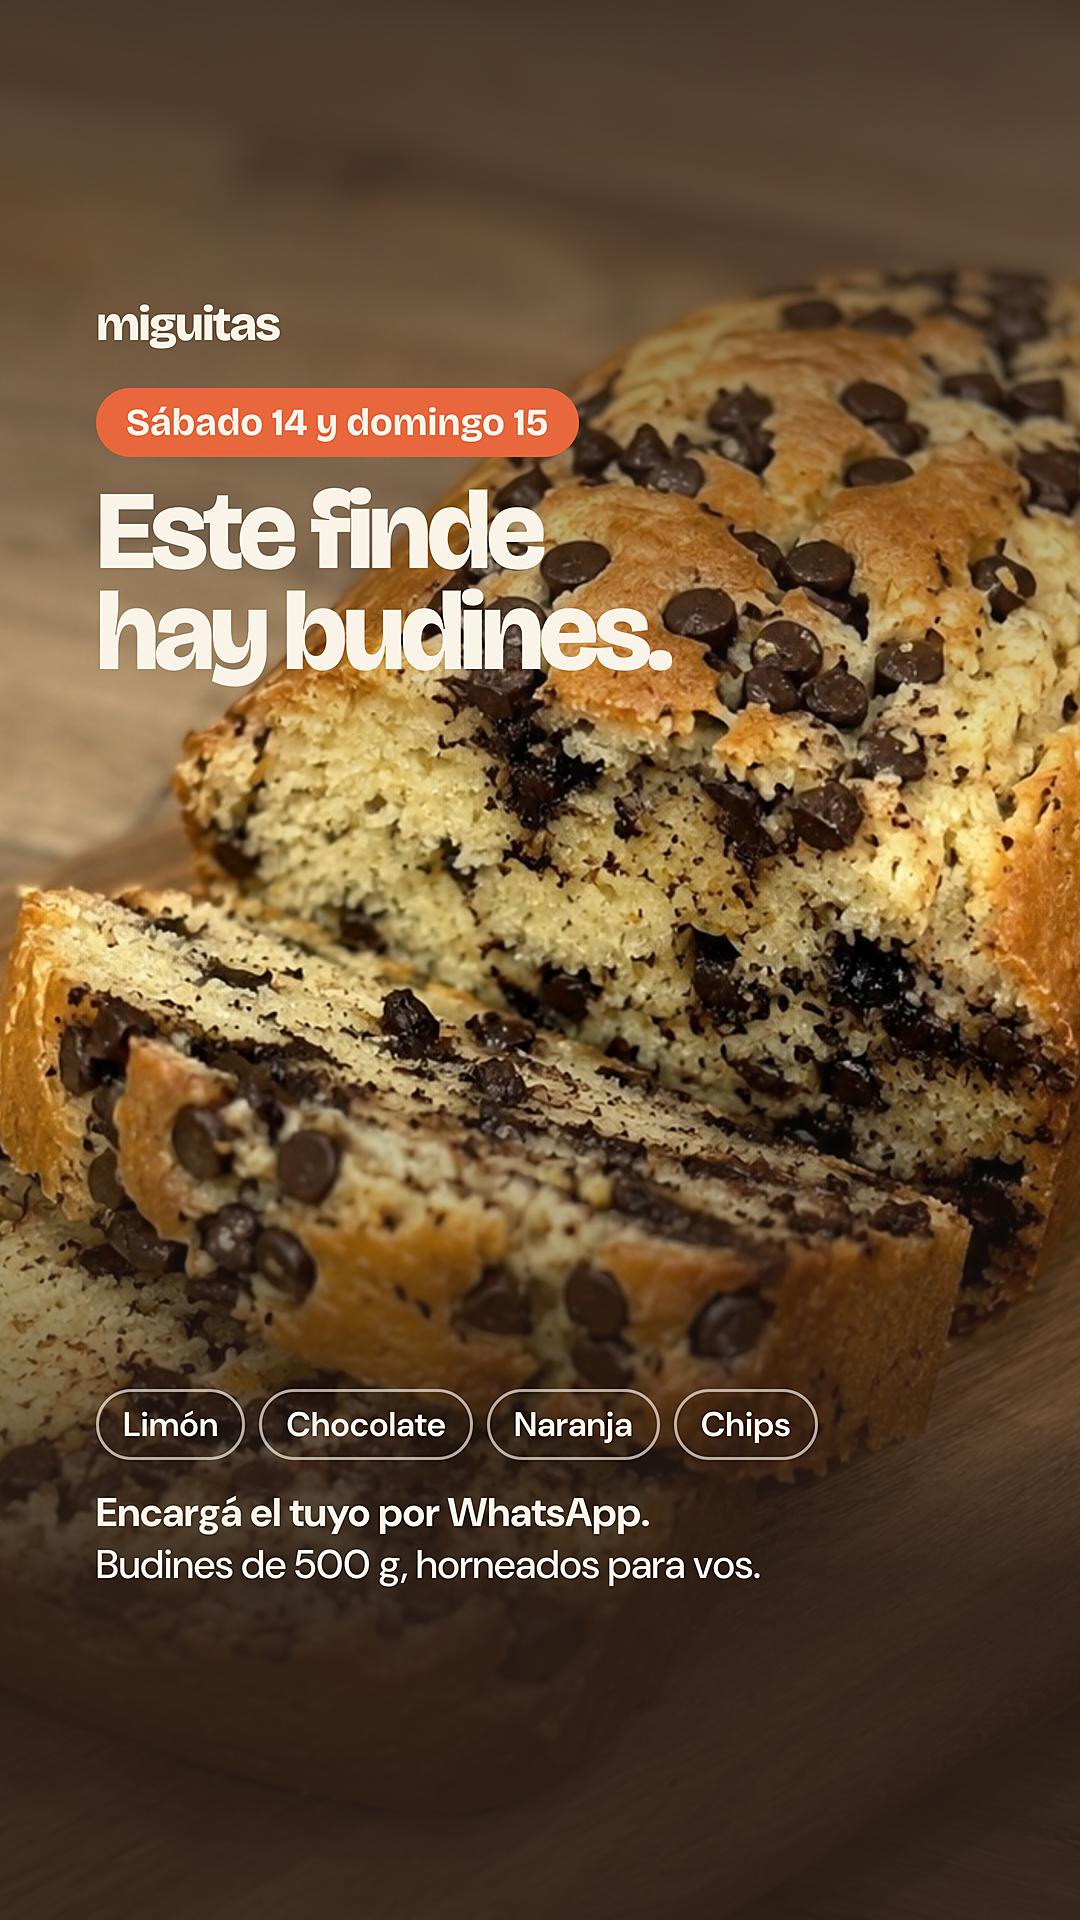
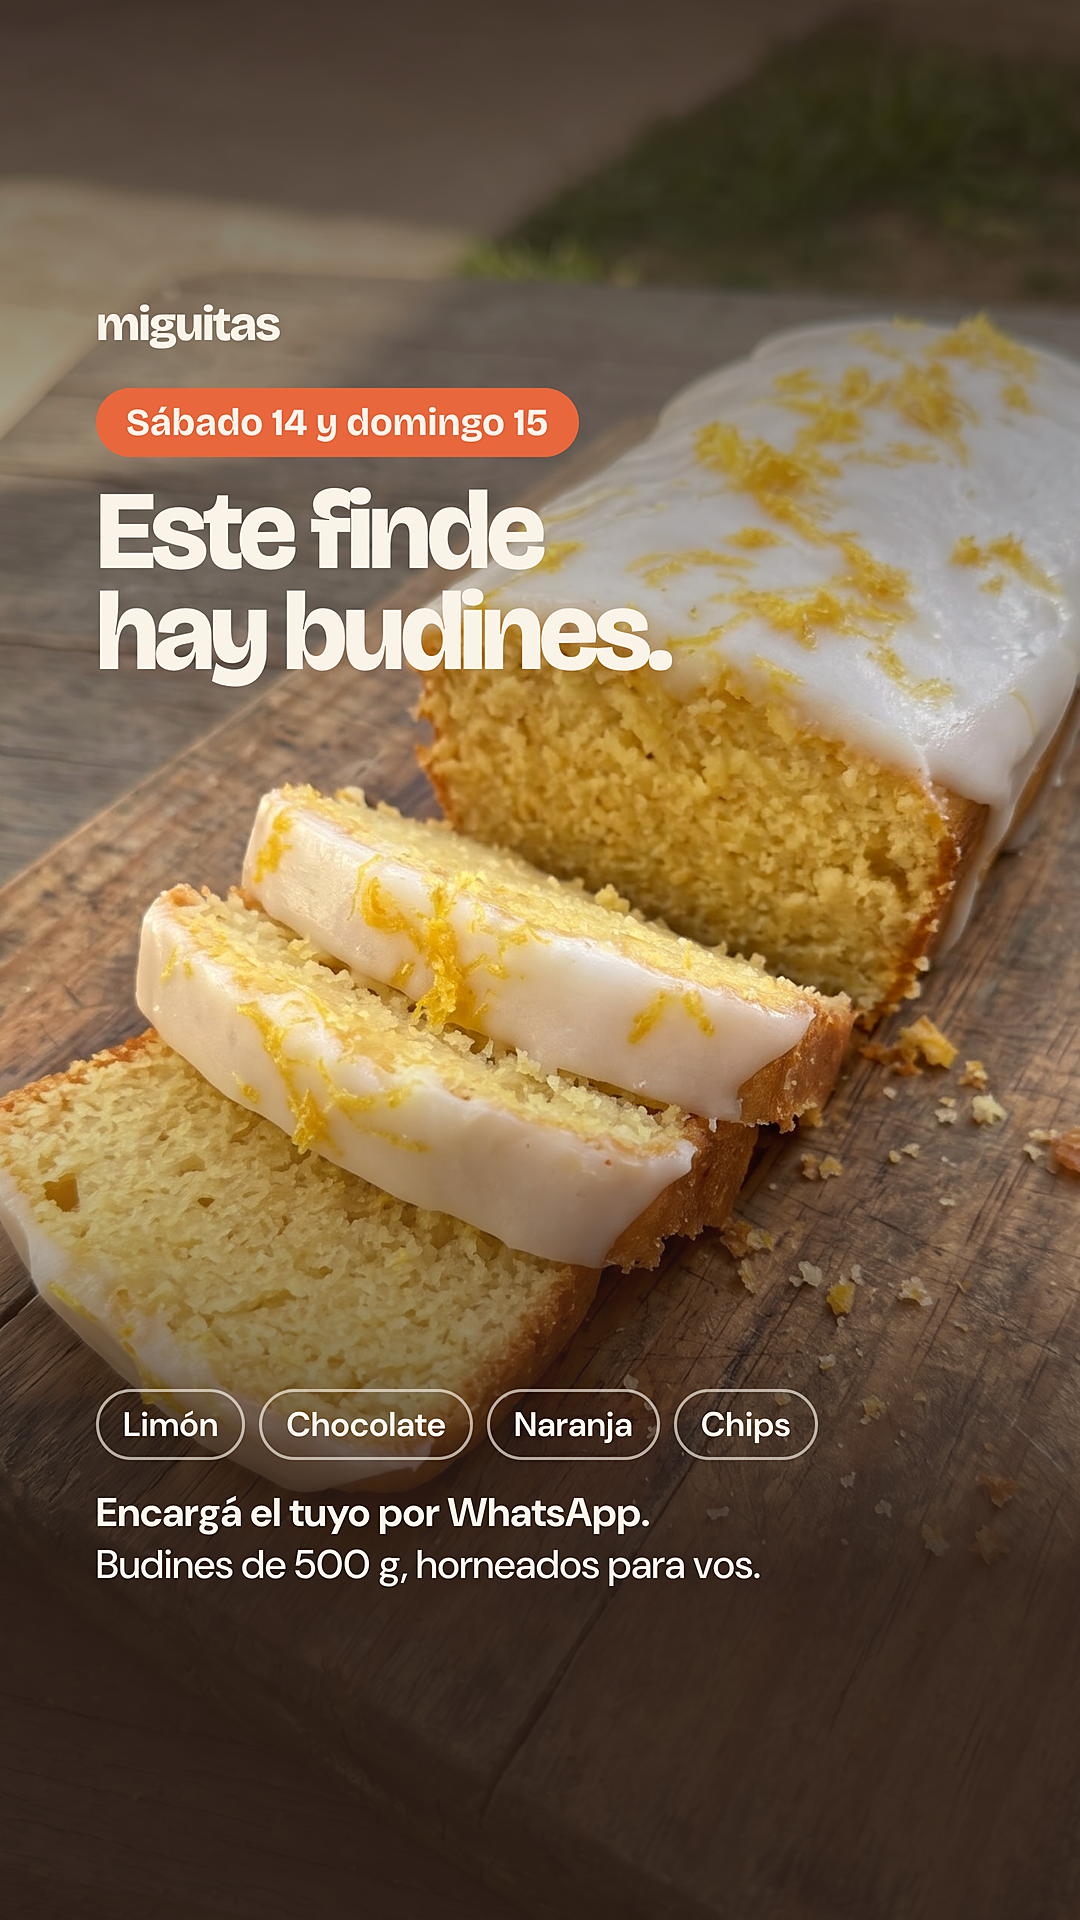
Instagram: historia del finde con la foto del limón
Claude-Session: https://claude.ai/code/session_01E37741rvoTVLUcn2uQcmpN

diff --git a/instagram/piezas.html b/instagram/piezas.html
@@ -155,7 +155,7 @@ body{background:#ddd;display:flex;flex-wrap:wrap;gap:40px;padding:40px;font-fami
 #h-sabores .punto{width:72px;height:72px;border-radius:50%;flex:none;border:4px solid rgba(250,243,232,.8)}
 
 /* Historia: encargos para el finde */
-#h-finde{background-image:url(fotos/chips-cortado.jpg);background-position:60% 50%}
+#h-finde{background-image:url(fotos/limon-rodajas.jpg);background-position:42% 50%}
 #h-finde::before{background:linear-gradient(180deg,rgba(43,29,22,.75) 0%,rgba(43,29,22,.35) 26%,rgba(43,29,22,0) 42%,rgba(43,29,22,0) 54%,rgba(43,29,22,.9) 82%)}
 #h-finde .fecha{display:inline-block;align-self:flex-start;margin-top:40px;background:var(--mandarina);color:var(--crema);font-family:var(--display);font-weight:700;font-size:38px;padding:12px 30px;border-radius:999px}
 #h-finde h1{margin-top:24px;font-size:112px}
